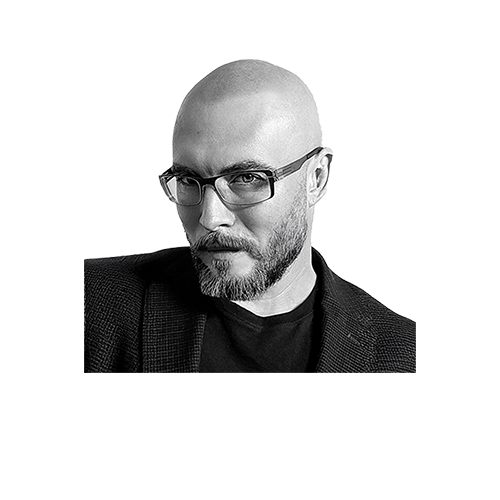
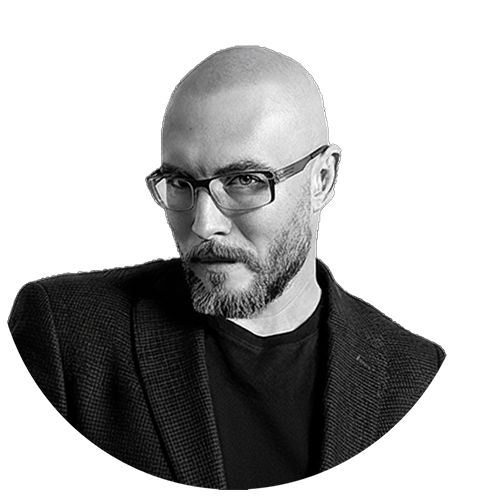
Update calculator labels and Alex Barkin headshot
- Improve calculator UI labels for clarity (e.g., "Number of Employees", "Cost per document processed by Staff")
- Update calculator title to "Cost of Manual Labor per Month"
- Remove duplicate cost per document display
- Update Alex Barkin headshot image

Changed region(s): [[0.0, 0.09, 0.9, 0.99]]

diff --git a/calculator.html b/calculator.html
@@ -366,14 +366,14 @@
       </div>
     </div>
     <section id="legal-cost-calculator">
-      <h2>Legal Cost Calculator</h2>
+      <h2>Cost of Manual Labor per Month</h2>
       
       <div class="calculator-content">
         <!-- Input Fields -->
         <div class="calculator-inputs">
           <!-- Number of Billable Staff -->
           <div class="input-group">
-            <label for="billable-staff"># of billable staff</label>
+            <label for="billable-staff">Number of Employees</label>
             <input 
               type="number" 
               id="billable-staff" 
@@ -386,7 +386,7 @@
 
           <!-- Daily Hours Slider -->
           <div class="input-group">
-            <label for="daily-hours">Daily hours spent on billable tasks</label>
+            <label for="daily-hours">Hours spent per day</label>
             <div class="slider-container">
               <div class="slider-value" id="daily-hours-value">0 hours</div>
               <input 
@@ -475,7 +475,7 @@
             </div>
 
             <div class="result-item">
-              <span class="result-label">Your documents processed</span>
+              <span class="result-label">Your staff documents processed</span>
               <span class="result-value" id="user-documents">0</span>
             </div>
             <div class="result-item">
@@ -488,11 +488,11 @@
             </div>
 
             <div class="result-item">
-              <span class="result-label">Total labor cost per document (your processing)</span>
+              <span class="result-label">Cost per document processed by Staff</span>
               <span class="result-value" id="labor-cost-per-doc">$0.00</span>
             </div>
             <div class="result-item">
-                <span class="result-label">Total cost per document (Publius)</span>
+                <span class="result-label">Cost per document processed by Publius</span>
                 <span class="result-value" id="cost-per-document">$0.00</span>
               </div>
               <div class="result-item">
@@ -500,12 +500,7 @@
                 <span class="result-value" id="total-staff-cost">$0</span>
               </div>
             <div class="result-item">
-              <span class="result-label">Total cost per document (Publius)</span>
-              <span class="result-value" id="cost-per-document">$0.00</span>
-            </div>
-
-            <div class="result-item">
-              <span class="result-label">Monthly cost of Publius</span>
+              <span class="result-label">Monthly cost of Publius subscription</span>
               <span class="result-value" id="monthly-cost">$399</span>
             </div>
 
